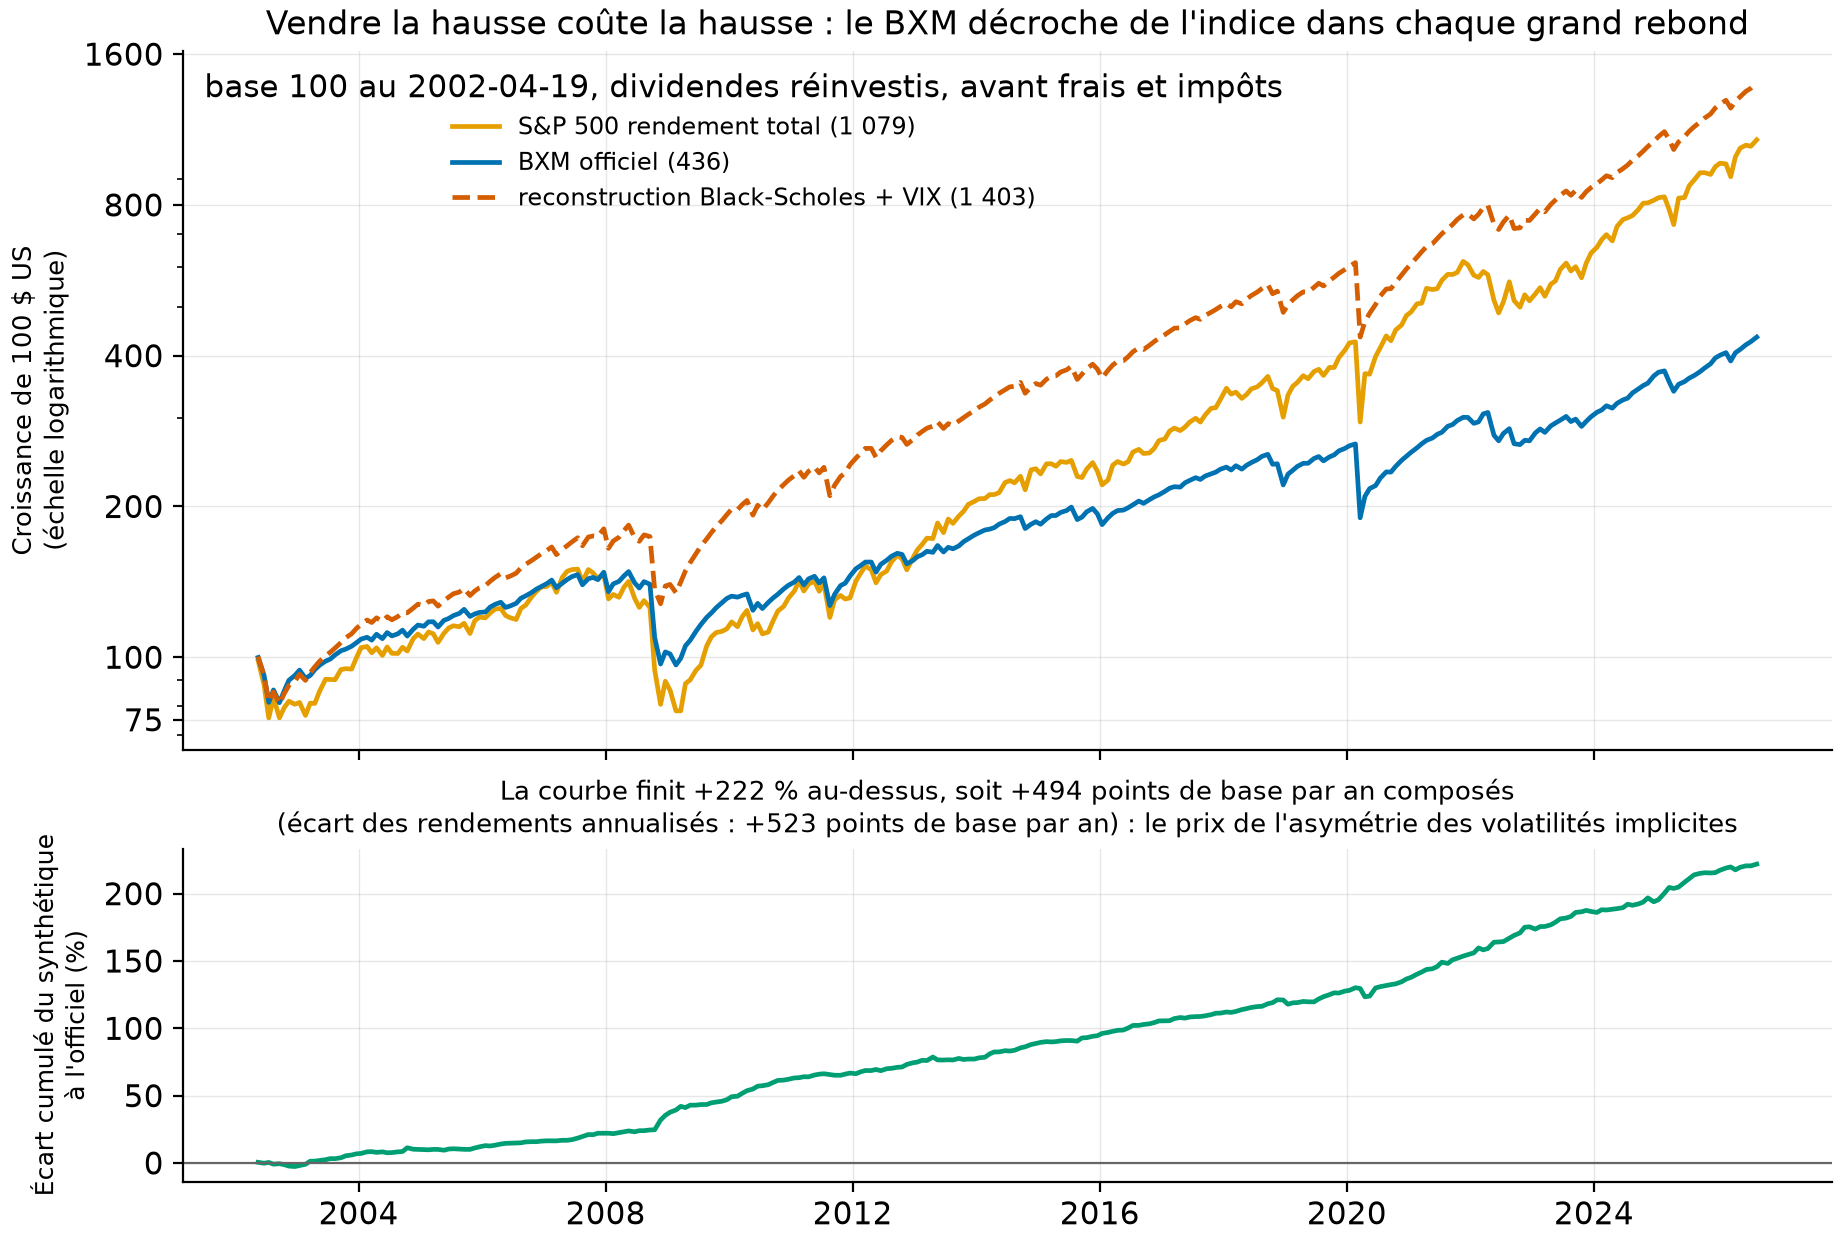
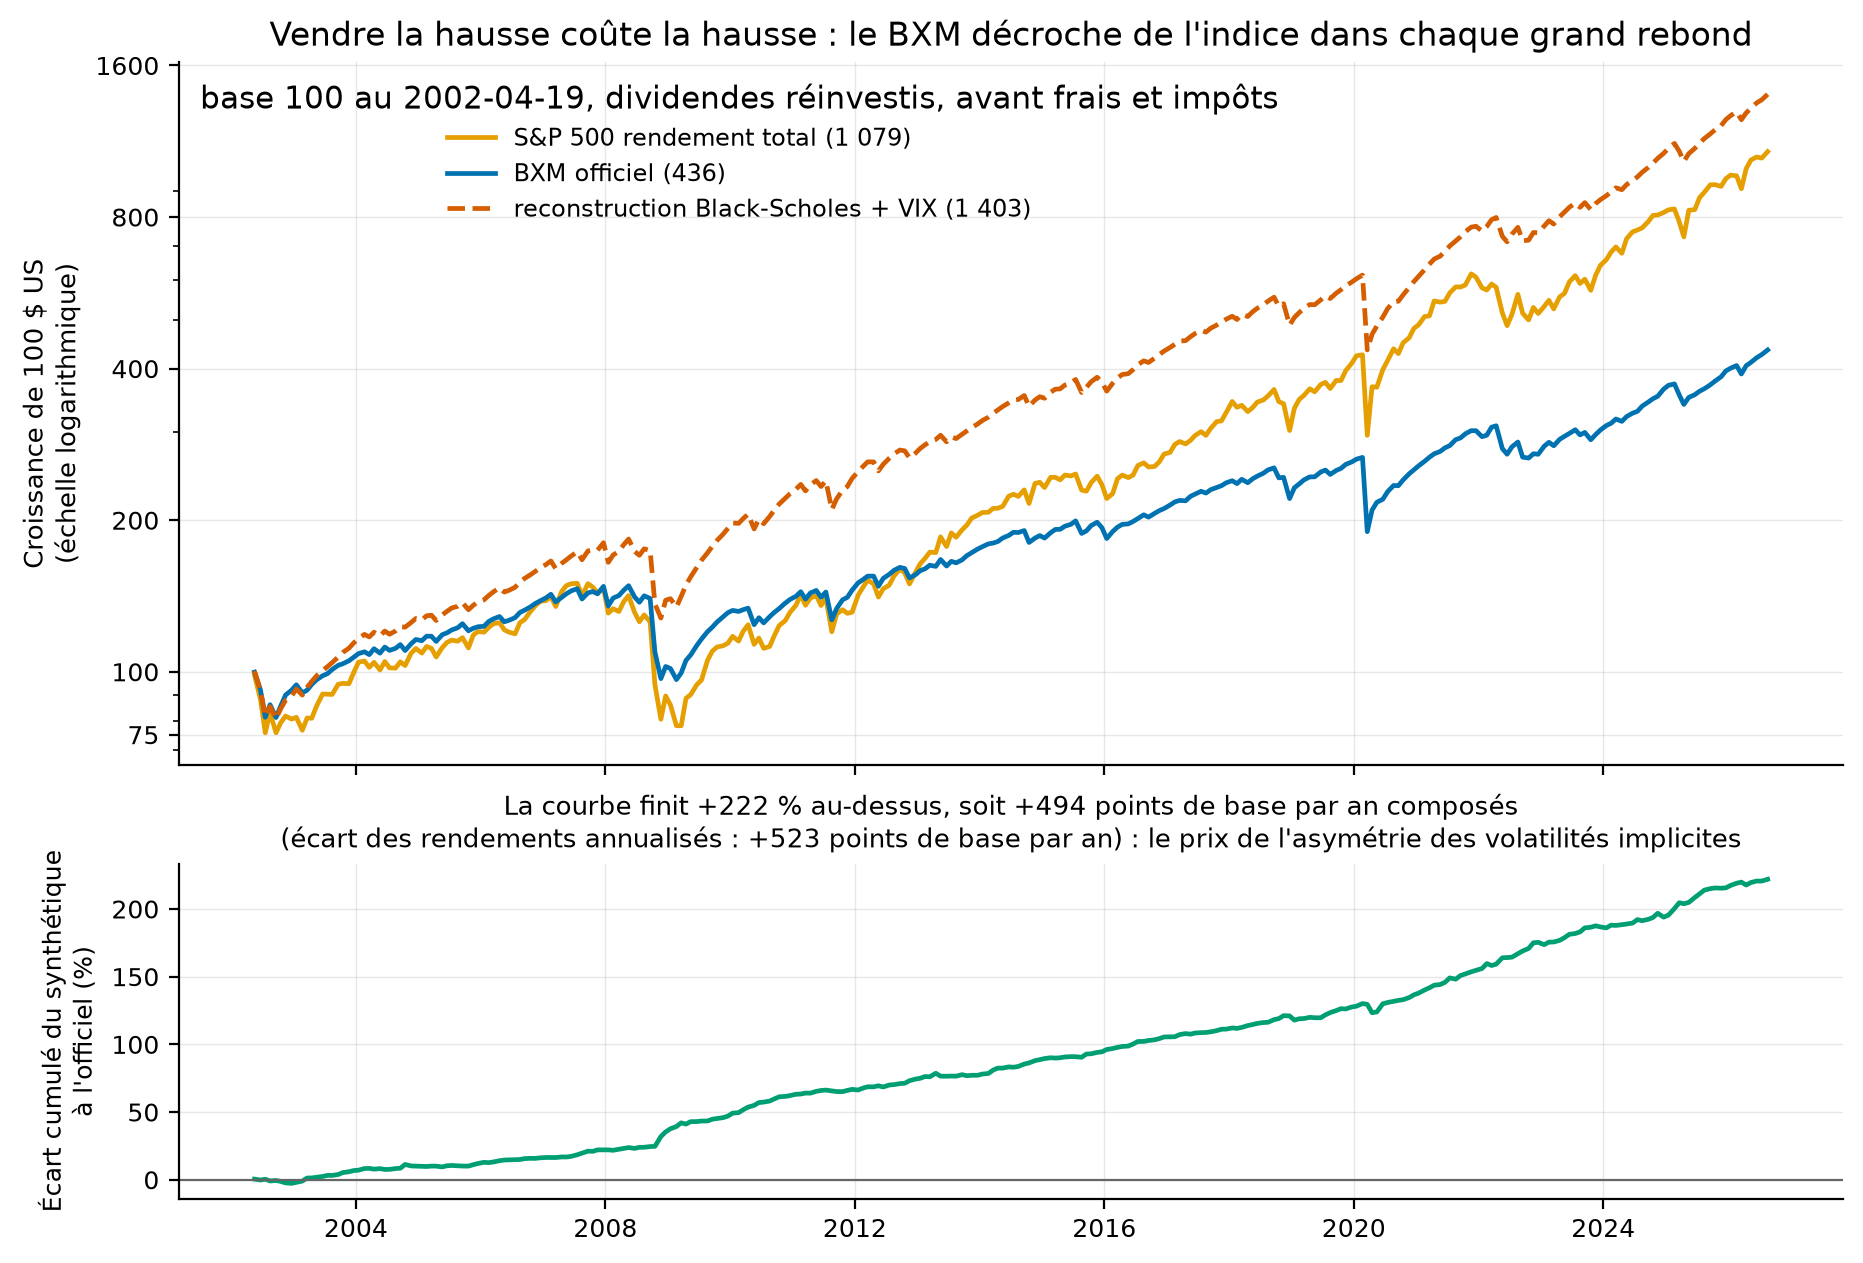
Consommer la feuille de style partagée au lieu de recopier la palette
La palette Okabe-Ito et les réglages de figure étaient recopiés à l'identique dans
chaque dépôt du portefeuille. Une correction de graisse de trait devait donc être faite
une fois par dépôt, et ne l'était jamais.

Le module de figures appelle désormais gv-fintools 0.2.1. Le nom public de la fonction
de réglage ne change pas, si bien qu'aucun appelant n'est touché. Les figures sont
régénérées avec le nouveau style, qui ajoute l'embarquement des polices dans les PDF :
le texte d'une figure reste sélectionnable et cherchable dans le rapport.

diff --git a/src/ovc/figures.py b/src/ovc/figures.py
@@ -7,23 +7,16 @@ from pathlib import Path
 import matplotlib.pyplot as plt
 import numpy as np
 import pandas as pd
+from gvf.style import OKABE_ITO, appliquer, formateur  # noqa: F401
 
-OKABE_ITO = ["#0072B2", "#E69F00", "#009E73", "#D55E00", "#CC79A7", "#56B4E9", "#F0E442", "#000000"]
+# La palette et les réglages viennent de la couche partagée du portefeuille : les mêmes
+# couleurs et la même virgule décimale dans tous les dépôts, corrigées à un seul endroit.
 
 
 def use_style():
-    import matplotlib as mpl
-    from cycler import cycler
-    from matplotlib.ticker import FuncFormatter
-
-    mpl.rcParams.update({
-        "figure.dpi": 200, "savefig.dpi": 200, "figure.constrained_layout.use": True,
-        "font.size": 11, "axes.titlesize": 12, "axes.prop_cycle": cycler(color=OKABE_ITO),
-        "axes.spines.top": False, "axes.spines.right": False,
-        "axes.grid": True, "grid.alpha": 0.3, "grid.linewidth": 0.5,
-        "legend.frameon": False, "lines.linewidth": 1.7,
-    })
-    return FuncFormatter(lambda v, _: f"{v:g}".replace(".", ","))
+    """Les réglages communs, puis le formateur d'axe en français."""
+    appliquer()
+    return formateur()
 
 
 def _croissance(r: pd.Series) -> pd.Series:
